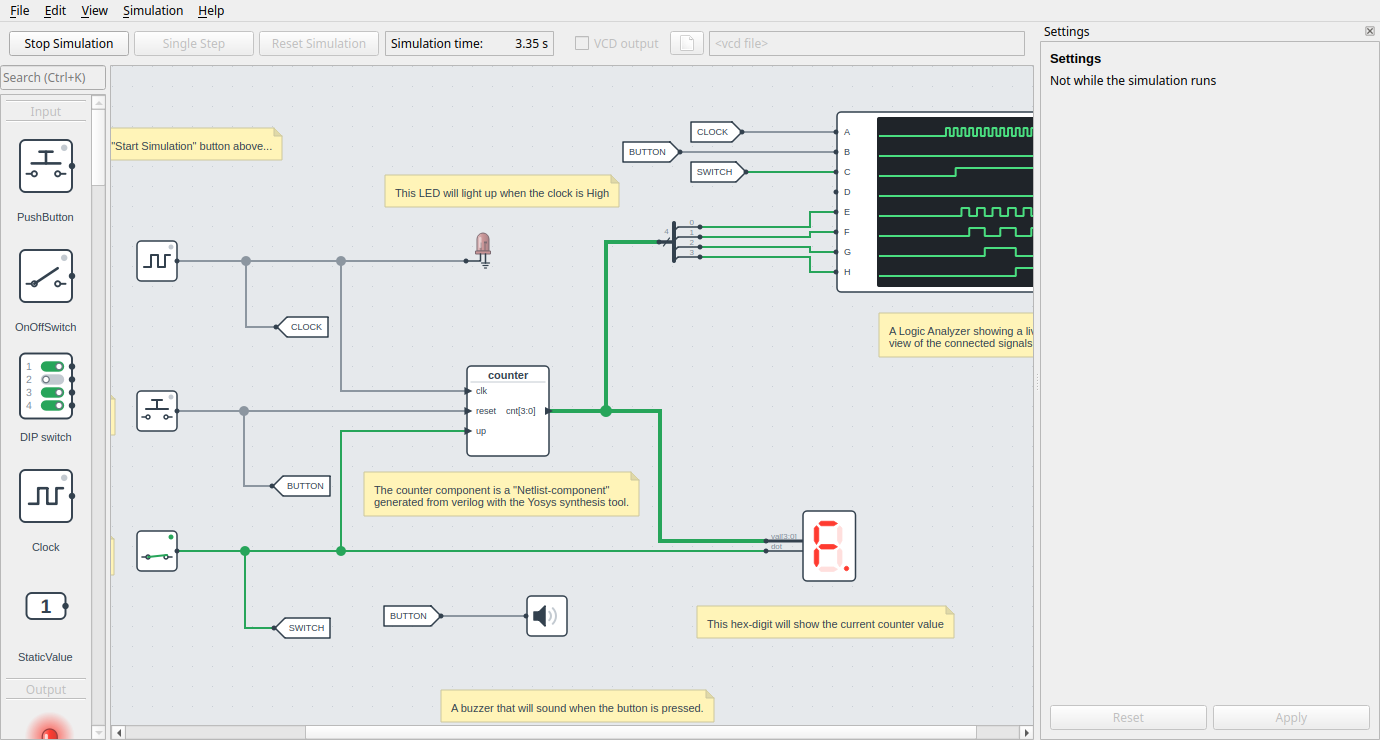
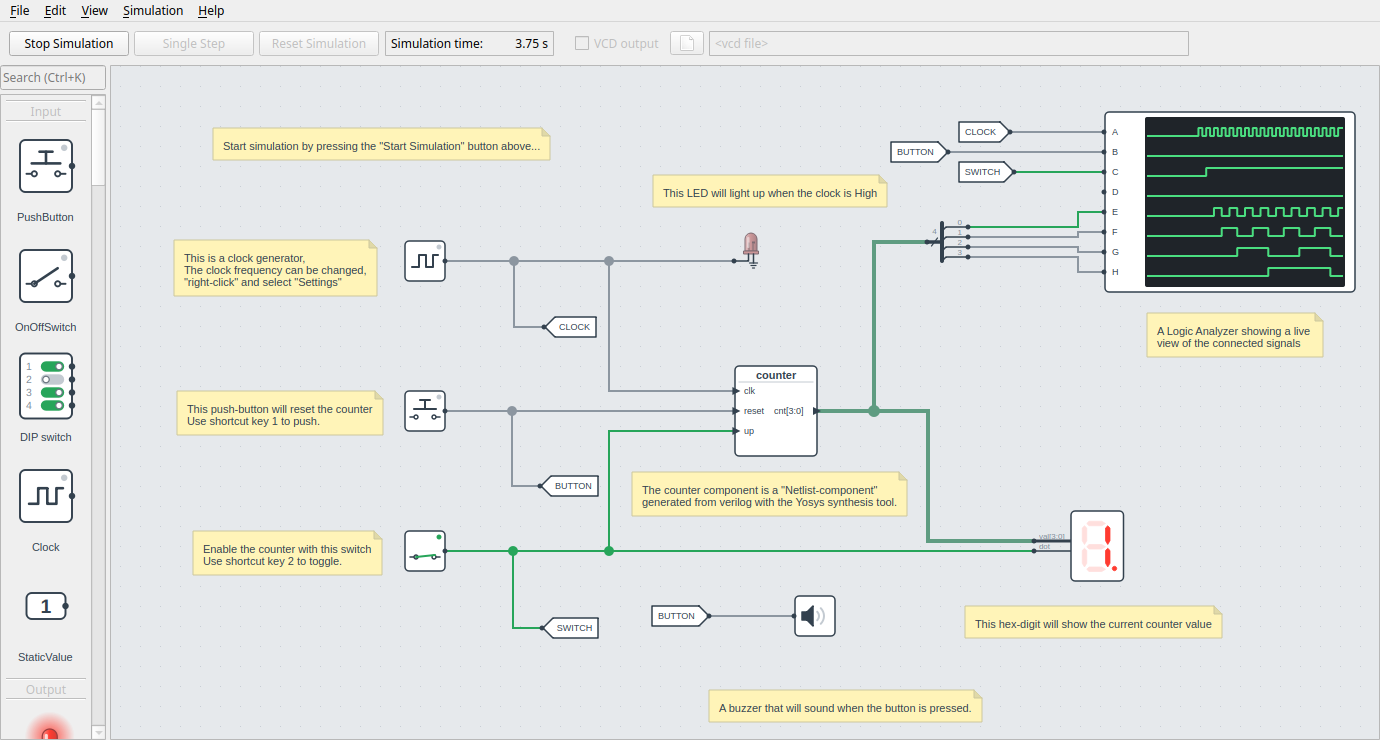
Show the front page screenshot without the settings pane
The pane took a fifth of the window, beside a running circuit where
nothing was selected, so it only said to select a component.

diff --git a/docs/scripts/generate_gui_images.py b/docs/scripts/generate_gui_images.py
@@ -234,9 +234,13 @@ def window_screenshots(model: AppModel, window: MainWindow) -> None:
         if isinstance(component, components.OnOffSwitch):
             component.turn_on()
     spin(3000)
+    # The circuit, without the settings pane beside it
+    window.settings_dock.hide()
+    spin(200)
     area.centerOn(QPointF(700, 300))
     spin(200)
     window.grab().save(str(IMAGES / "screenshot_digsim_app.png"))
+    window.settings_dock.show()
     model.model_stop()
     spin(300)
 
